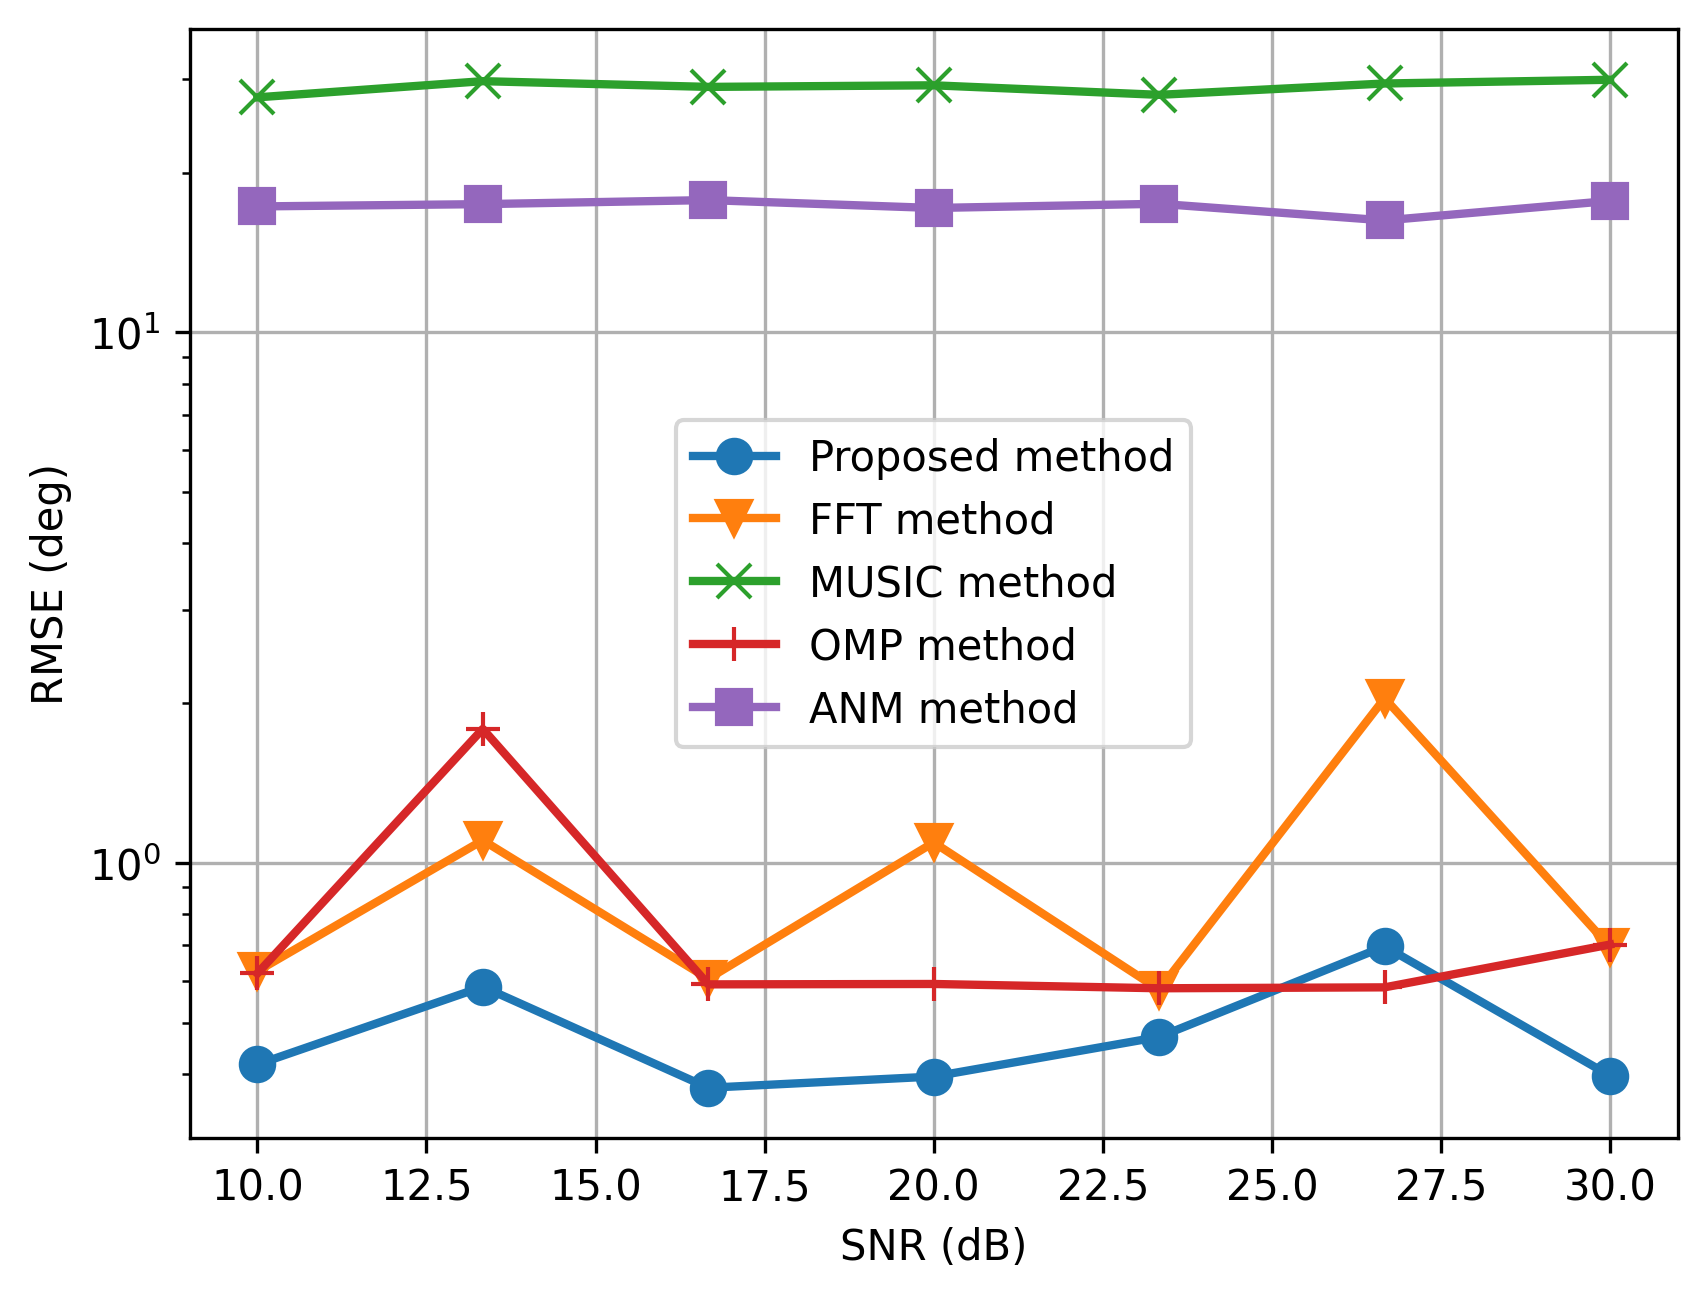
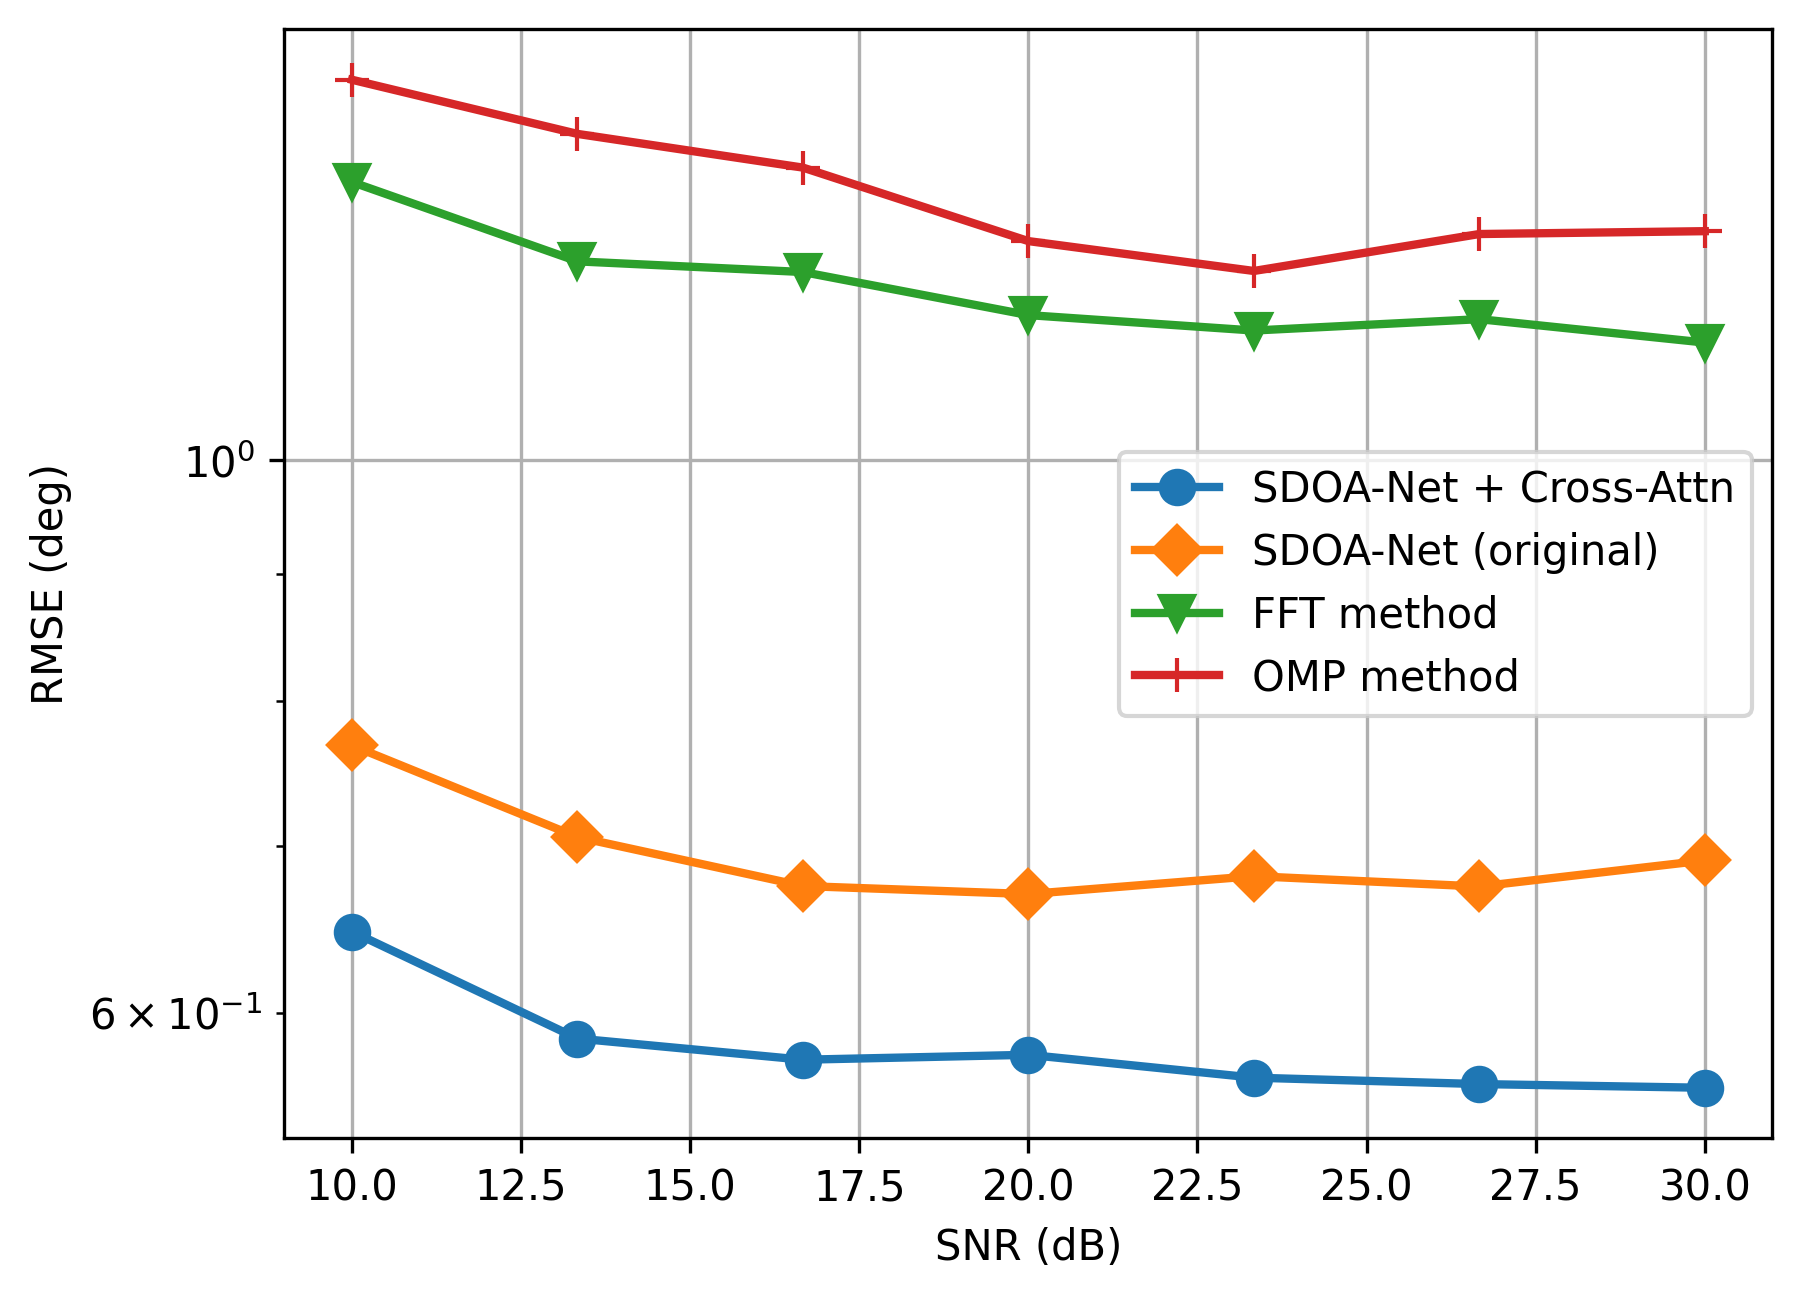
SDOA-Net-main initial version

diff --git a/main.py b/main.py
@@ -15,7 +15,7 @@ import doasys
 #import doa_method 没传这个文件
 from scipy import io
 
-import matlab.engine
+import matlab.engine  # 服务器无MATLAB许可证，已关闭
 
 
 def make_hankel(signal, m):
@@ -45,11 +45,24 @@ def music(signal, xgrid, nfreq, m=20):
     return music_fr
 
 
+# 加载旧版SDOA-Net模型的辅助函数（net0.pkl由原版doasys.spectrumModule保存）
+def load_legacy_model(path, use_cuda):
+    _orig_class = doasys.spectrumModule
+    doasys.spectrumModule = doasys.spectrumModuleV0
+    if use_cuda:
+        net = torch.load(path, weights_only=False)
+    else:
+        net = torch.load(path, map_location=torch.device('cpu'), weights_only=False)
+    doasys.spectrumModule = _orig_class
+    return net
+
+
 if __name__ == '__main__':
 
-    is_music = True
-    is_anm = True
+    is_music = False  # 服务器无MATLAB许可证，已关闭MUSIC对比
+    is_anm = False    # 服务器无MATLAB许可证，已关闭ANM对比
     is_proposed = True
+    is_legacy = True  # 是否加载原版SDOA-Net（net0.pkl）进行对比
 
     is_fig = True
     is_save = False
@@ -112,17 +125,39 @@ if __name__ == '__main__':
     ref_grid = doa_grid
     # generate the training data
 
-    loss_arr = np.load('loss.npz')
-
-    loss_train = loss_arr['arr_0']
-    loss_val = loss_arr['arr_1']
+    # 加载新版SDOA-Net（含Cross-Attention）
     if args.use_cuda:
         net = torch.load('net.pkl', weights_only=False)
     else:
         net = torch.load('net.pkl', map_location=torch.device('cpu'), weights_only=False)
 
+    # 加载原版SDOA-Net（不含Cross-Attention，用于对比）
+    if is_legacy:
+        net0 = load_legacy_model('net0.pkl', args.use_cuda)
+        print("Loaded original SDOA-Net from net0.pkl")
+
+    # PyTorch 2.6+ compatibility
+    for module in net.modules():
+        if isinstance(module, nn.Conv1d) and not hasattr(module, '_reversed_padding_repeated_twice'):
+            p = module.padding
+            module._reversed_padding_repeated_twice = (p, p) if isinstance(p, int) else tuple(p) * 2
+    if is_legacy:
+        for module in net0.modules():
+            if isinstance(module, nn.Conv1d) and not hasattr(module, '_reversed_padding_repeated_twice'):
+                p = module.padding
+                module._reversed_padding_repeated_twice = (p, p) if isinstance(p, int) else tuple(p) * 2
+
     if args.use_cuda:
         net.cuda()
+        if is_legacy:
+            net0.cuda()
+
+    # 多GPU支持：双卡3090 DataParallel
+    if args.use_cuda and torch.cuda.device_count() > 1:
+        print("Using %d GPUs: %s" % (torch.cuda.device_count(), torch.cuda.get_device_name(0)))
+        net = nn.DataParallel(net)
+        if is_legacy:
+            net0 = nn.DataParallel(net0)
 
     # 构建字典矩阵，公式26
     dic_mat = np.zeros((doa_grid.size, 2, args.ant_num))
@@ -141,13 +176,14 @@ if __name__ == '__main__':
     # SNR_range = np.linspace(0, 30, 4)
     SNR_range = np.linspace(10, 30, 7)
     RMSE = np.zeros((SNR_range.size, 1))
+    RMSE_legacy = np.zeros((SNR_range.size, 1))
     RMSE_FFT = np.zeros((SNR_range.size, 1))
     RMSE_MUSIC = np.zeros((SNR_range.size, 1))
     RMSE_OMP = np.zeros((SNR_range.size, 1))
     RMSE_ANM = np.zeros((SNR_range.size, 1))
 
-    eng = matlab.engine.start_matlab()
-    eng.cvx_startup(nargout=0)
+    eng = matlab.engine.start_matlab()           # 服务器无MATLAB许可证，已关闭
+    eng.cvx_startup(nargout=0)                   # 服务器无MATLAB许可证，已关闭
 
     # dic_music = np.zeros((doa_grid.size, antnum_reshape), dtype=complex)
     # for idx2 in range(doa_grid.size):
@@ -156,13 +192,14 @@ if __name__ == '__main__':
     for n in range(SNR_range.size):
         n_test = 100 # 10
         RMSE[n] = 0
+        RMSE_legacy[n] = 0
         RMSE_FFT[n] = 0
         RMSE_MUSIC[n] = 0
         RMSE_OMP[n] = 0
         RMSE_ANM[n] = 0
         for n1 in range(n_test):
             epoch_start_time = time.time()
-            test_len = 2 # 2000
+            test_len = 2000
             signal, doa, target_num = doasys.gen_signal(test_len, args)
             ref_sp = doasys.gen_refsp(doa, ref_grid, args.gaussian_std / args.ant_num)
             signal = torch.from_numpy(signal).float()
@@ -175,8 +212,6 @@ if __name__ == '__main__':
                     noisy_signals = noisy_signals.cuda()
                 with torch.no_grad():
                     output_net = net(noisy_signals).view(test_len, 2, -1)
-
-                # output_net = net(noisy_signals).view(test_len, 2, -1)
 
                 mm_real = torch.mm(output_net[:, 0, :], dic_mat_torch[:, 0, :].T) + torch.mm(output_net[:, 1, :],
                                                                                              dic_mat_torch[:, 1, :].T)
@@ -191,6 +226,27 @@ if __name__ == '__main__':
                 est_doa = doasys.get_doa(sp_np, doa_num, doa_grid, args.max_target_num, doa)
                 RMSE[n] = RMSE[n] + np.sum(np.power(np.abs(est_doa - doa), 2))
 
+            # 原版SDOA-Net（不含Cross-Attention）对比
+            if is_legacy:
+                if args.use_cuda:
+                    noisy_signals_legacy = noisy_signals
+                else:
+                    noisy_signals_legacy = noisy_signals
+                with torch.no_grad():
+                    output_net0 = net0(noisy_signals_legacy).view(test_len, 2, -1)
+
+                mm_real0 = torch.mm(output_net0[:, 0, :], dic_mat_torch[:, 0, :].T) + torch.mm(output_net0[:, 1, :],
+                                                                                               dic_mat_torch[:, 1, :].T)
+                mm_imag0 = torch.mm(output_net0[:, 0, :], dic_mat_torch[:, 1, :].T) - torch.mm(output_net0[:, 1, :],
+                                                                                               dic_mat_torch[:, 0, :].T)
+                sp0 = torch.pow(mm_real0, 2) + torch.pow(mm_imag0, 2)
+                sp0_np = sp0.cpu().detach().numpy()
+                for idx_sp in range(sp0_np.shape[0]):
+                    sp0_np[idx_sp] = sp0_np[idx_sp] / np.max(sp0_np[idx_sp])
+
+                est_doa0 = doasys.get_doa(sp0_np, doa_num, doa_grid, args.max_target_num, doa)
+                RMSE_legacy[n] = RMSE_legacy[n] + np.sum(np.power(np.abs(est_doa0 - doa), 2))
+
             # FFT method
             if args.use_cuda:
                 r = noisy_signals.cpu().detach().numpy()
@@ -198,13 +254,14 @@ if __name__ == '__main__':
                 r = noisy_signals.detach().numpy()
             r_c = r[:, 0, :] + 1j * r[:, 1, :]
             sp_FFT = np.power(np.abs(np.matmul(dic_mat_comp, np.conj(r_c).T)), 2).T
+
             for idx_sp in range(sp_FFT.shape[0]):
                 sp_FFT[idx_sp] = sp_FFT[idx_sp] / np.max(sp_FFT[idx_sp])
             doa_num = (doa >= -90).sum(axis=1)
             est_doa = doasys.get_doa(sp_FFT, doa_num, doa_grid, args.max_target_num, doa)
             RMSE_FFT[n] = RMSE_FFT[n] + np.sum(np.power(np.abs(est_doa - doa), 2))
 
-            # MUSIC alg
+            # MUSIC alg  -- 服务器无MATLAB许可证，已关闭
             if is_music:
                 if args.use_cuda:
                     r = noisy_signals.cpu().detach().numpy()
@@ -243,7 +300,7 @@ if __name__ == '__main__':
                 est_doa_omp[idx1] = np.sort(est_doa_omp[idx1])
             RMSE_OMP[n] = RMSE_OMP[n] + np.sum(np.power(np.abs(est_doa_omp - doa), 2))
 
-            # atomic norm minimization alg
+            # atomic norm minimization alg  -- 服务器无MATLAB许可证，已关闭
             if is_anm:
                 if args.use_cuda:
                     r = noisy_signals.cpu().detach().numpy()
@@ -266,7 +323,9 @@ if __name__ == '__main__':
             if is_fig:
                 plt.figure()
                 if is_proposed:
-                    plt.plot(doa_grid, sp_np[0], label='Proposed method')
+                    plt.plot(doa_grid, sp_np[0], label='SDOA-Net + Cross-Attn')
+                if is_legacy:
+                    plt.plot(doa_grid, sp0_np[0], label='SDOA-Net (original)')
                 plt.plot(doa_grid, sp_FFT[0], label='FFT method')
                 if is_anm:
                     plt.plot(doa_grid, sp_ANM[0], label='ANM method')
@@ -289,12 +348,17 @@ if __name__ == '__main__':
                 if tmp_doa.size == 3:
                     io.savemat('doa_grid.mat', {'array': doa_grid})
                     io.savemat('sp_proposed.mat', {'array': sp_np[0]})
-                    io.savemat('sp_ANM.mat', {'array': sp_ANM[0]})
-                    io.savemat('sp_MUSIC.mat', {'array': sp_MUSIC[0]})
+                    if is_legacy:
+                        io.savemat('sp_legacy.mat', {'array': sp0_np[0]})
+                    if is_anm:
+                        io.savemat('sp_ANM.mat', {'array': sp_ANM[0]})
+                    if is_music:
+                        io.savemat('sp_MUSIC.mat', {'array': sp_MUSIC[0]})
                     io.savemat('sp_FFT.mat', {'array': sp_FFT[0]})
 
             print("SNR: %.2f dB, Test: %d/%d, Time: %.2f" % (SNR_dB, n1, n_test, time.time() - epoch_start_time))
         RMSE[n] = np.sqrt(RMSE[n] / (doa.size * n_test))
+        RMSE_legacy[n] = np.sqrt(RMSE_legacy[n] / (doa.size * n_test))
         RMSE_FFT[n] = np.sqrt(RMSE_FFT[n] / (doa.size * n_test))
         if is_music:
             RMSE_MUSIC[n] = np.sqrt(RMSE_MUSIC[n] / (doa.size * n_test))
@@ -302,15 +366,17 @@ if __name__ == '__main__':
         if is_anm:
             RMSE_ANM[n] = np.sqrt(RMSE_ANM[n] / (doa.size * n_test))
         print(
-            "SNR (dB): %.2f dB, RMSE (deg): %.2f, RMSE_FFT (deg): %.2f, RMSE_OMP (deg): %.2f, RMSE_ANM (deg): %.2f, RMSE_MUSIC (deg): %.2f" % (
-                SNR_dB, RMSE[n], RMSE_FFT[n], RMSE_OMP[n], RMSE_ANM[n], RMSE_MUSIC[n]))
+            "SNR (dB): %.2f dB, RMSE_XAttn (deg): %.2f, RMSE_SDOA (deg): %.2f, RMSE_FFT (deg): %.2f, RMSE_OMP (deg): %.2f" % (
+                SNR_dB, RMSE[n], RMSE_legacy[n], RMSE_FFT[n], RMSE_OMP[n]))
 
     plt.figure()
-    plt.semilogy(SNR_range, RMSE, linestyle='-', marker='o', linewidth=2, markersize=8, label='Proposed method')
+    plt.semilogy(SNR_range, RMSE, linestyle='-', marker='o', linewidth=2, markersize=8, label='SDOA-Net + Cross-Attn')
+    if is_legacy:
+        plt.semilogy(SNR_range, RMSE_legacy, linestyle='-', marker='D', linewidth=2, markersize=8, label='SDOA-Net (original)')
     plt.semilogy(SNR_range, RMSE_FFT, linestyle='-', marker='v', linewidth=2, markersize=8, label='FFT method')
-    plt.semilogy(SNR_range, RMSE_MUSIC, linestyle='-', marker='x', linewidth=2, markersize=8, label='MUSIC method')
+    # plt.semilogy(SNR_range, RMSE_MUSIC, linestyle='-', marker='x', linewidth=2, markersize=8, label='MUSIC method')
     plt.semilogy(SNR_range, RMSE_OMP, linestyle='-', marker='+', linewidth=2, markersize=8, label='OMP method')
-    plt.semilogy(SNR_range, RMSE_ANM, linestyle='-', marker='s', linewidth=2, markersize=8, label='ANM method')
+    # plt.semilogy(SNR_range, RMSE_ANM, linestyle='-', marker='s', linewidth=2, markersize=8, label='ANM method')
     plt.xlabel('SNR (dB)')
     plt.ylabel('RMSE (deg)')
     plt.legend()
@@ -321,13 +387,15 @@ if __name__ == '__main__':
     if is_save:
         io.savemat('SNR_range.mat', {'array': SNR_range})
         io.savemat('RMSE.mat', {'array': RMSE})
+        io.savemat('RMSE_legacy.mat', {'array': RMSE_legacy})
         io.savemat('RMSE_FFT.mat', {'array': RMSE_FFT})
-        io.savemat('RMSE_MUSIC.mat', {'array': RMSE_MUSIC})
+        # io.savemat('RMSE_MUSIC.mat', {'array': RMSE_MUSIC})
         io.savemat('RMSE_OMP.mat', {'array': RMSE_OMP})
-        io.savemat('RMSE_ANM.mat', {'array': RMSE_ANM})
+        # io.savemat('RMSE_ANM.mat', {'array': RMSE_ANM})
 
     # plt.figure()
-    # plt.semilogy(SNR_range, savitzky_golay(RMSE, 50, 3), linestyle='-', marker='o', linewidth=2, markersize=8, label='Proposed method')
+    # plt.semilogy(SNR_range, savitzky_golay(RMSE, 50, 3), linestyle='-', marker='o', linewidth=2, markersize=8, label='SDOA-Net + Cross-Attn')
+    # plt.semilogy(SNR_range, savitzky_golay(RMSE_legacy, 50, 3), linestyle='-', marker='D', linewidth=2, markersize=8, label='SDOA-Net (original)')
     # plt.semilogy(SNR_range, savitzky_golay(RMSE_FFT, 50, 3), linestyle='-', marker='v', linewidth=2, markersize=8, label='FFT method')
     # plt.semilogy(SNR_range, savitzky_golay(RMSE_MUSIC, 50, 3), linestyle='-', marker='x', linewidth=2, markersize=8, label='MUSIC method')
     # plt.semilogy(SNR_range, savitzky_golay(RMSE_OMP, 50, 3), linestyle='-', marker='+', linewidth=2, markersize=8, label='OMP method')

diff --git a/doasys.py b/doasys.py
@@ -98,7 +98,47 @@ def noise_torch(s, snr):
     return (s + noise).view(bsz, -1, signal_dim)
 
 
-# SDOA-Net的网络结构，输入为时域信号，输出为空间谱
+# 轻量级Cross-Attention模块，用于捕获卷积层之间的长距离依赖关系
+class CrossAttention(nn.Module):
+    def __init__(self, in_dim):
+        super().__init__()
+        self.d_model = 16
+        self.num_heads = 4
+        self.head_dim = self.d_model // self.num_heads
+        self.scale = self.head_dim ** -0.5
+
+        self.in_proj = nn.Linear(in_dim, self.d_model, bias=False)
+        self.q_proj = nn.Linear(self.d_model, self.d_model, bias=False)
+        self.k_proj = nn.Linear(self.d_model, self.d_model, bias=False)
+        self.v_proj = nn.Linear(self.d_model, self.d_model, bias=False)
+        self.out_proj = nn.Linear(self.d_model, in_dim, bias=False)
+
+    def forward(self, x):
+        # x: (batch_size, seq_len, in_dim)
+        bsz, seq_len, _ = x.shape
+        residual = x
+
+        x = self.in_proj(x)  # (bsz, seq_len, d_model)即(bsz, 32, 16)
+
+        # qkv shape: (bsz, 4, 32, 4) (批次, 4个头, 序列长度32, 每个头维度4)
+        q = self.q_proj(x).view(bsz, seq_len, self.num_heads, self.head_dim).transpose(1, 2)
+        k = self.k_proj(x).view(bsz, seq_len, self.num_heads, self.head_dim).transpose(1, 2)
+        v = self.v_proj(x).view(bsz, seq_len, self.num_heads, self.head_dim).transpose(1, 2)
+
+        # k.transpose: (bsz, 4, 4, 32) 与q相乘变为(bsz, 4, 32, 32)
+        # (32, 32)是注意力权重矩阵
+        attn = torch.matmul(q, k.transpose(-2, -1)) * self.scale
+        attn = torch.softmax(attn, dim=-1)
+
+        # 加权求和 (bsz, 4, 32, 32) @ (bsz, 4, 32, 4) = (bsz, 4, 32, 4)
+        out = torch.matmul(attn, v)
+        out = out.transpose(1, 2).contiguous().view(bsz, seq_len, self.d_model) # (bsz, 32, 16)
+        out = self.out_proj(out)  # (bsz, seq_len, in_dim)即(bsz, 32, 2)
+
+        return (out + residual).contiguous()  # 残差连接
+
+
+# SDOA-Net的网络结构，输入为时域信号，输出为空间谱（含Cross-Attention）
 class spectrumModule(nn.Module):
     def __init__(self, signal_dim=8, n_filters=8, n_layers=3, inner_dim=125,
                  kernel_size=3):
@@ -115,8 +155,44 @@ class spectrumModule(nn.Module):
                 nn.ReLU(),
             ]
         self.mod = nn.Sequential(*mod)
+        # 在卷积层之后、展平之前插入Cross-Attention，捕获阵元间长距离依赖
+        self.attn = CrossAttention(n_filters)
         # self.out_layer1 = nn.ConvTranspose1d(n_filters, 1, 4, stride=1, padding=4 // 2, output_padding=1, bias=False)
         # self.linear1 = nn.Linear(inner_dim, 2 * signal_dim, bias=False)
+        self.out_layer = nn.Linear(inner_dim * n_filters, 2 * signal_dim, bias=False)
+
+
+    def forward(self, inp):
+        bsz = inp.size(0)
+        inp = inp.view(bsz, -1)   # (bsz, 32)
+        x = self.in_layer(inp).view(bsz, self.n_filters, -1)  # (bsz, 2, 32)
+        x = self.mod(x)   # (bsz, 2, 32) 经过 6 层卷积
+        # Cross-Attention: 将inner_dim视作序列长度，在n_filters特征维度上做多头注意力
+        x = x.transpose(1, 2)          # (bsz, inner_dim, n_filters)即(bsz, 32, 2)
+        x = self.attn(x)               # (bsz, inner_dim, n_filters)调用多头注意力，shape不变
+        x = x.transpose(1, 2)          # (bsz, n_filters, inner_dim)即(bsz, 2, 32)
+        x = x.reshape(bsz, -1)    # (bsz, 64) 展平
+        x = self.out_layer(x).view(bsz, -1)     # (bsz, 32)
+        return x
+
+
+# 原版SDOA-Net（不含Cross-Attention），用于加载旧模型net0.pkl
+class spectrumModuleV0(nn.Module):
+    def __init__(self, signal_dim=8, n_filters=8, n_layers=3, inner_dim=125,
+                 kernel_size=3):
+        super().__init__()
+        self.n_filters = n_filters
+        self.in_layer = nn.Linear(2 * signal_dim, inner_dim * n_filters, bias=False)
+        mod = []
+        for n in range(n_layers):  # padding=kernel_size - 1
+            mod += [
+                nn.Conv1d(n_filters, n_filters, kernel_size=kernel_size, padding=kernel_size // 2, bias=False,
+                          padding_mode='circular'),
+                # nn.Conv1d(n_filters, n_filters, kernel_size=kernel_size, padding=kernel_size - 1, bias=False),
+                nn.BatchNorm1d(n_filters),
+                nn.ReLU(),
+            ]
+        self.mod = nn.Sequential(*mod)
         self.out_layer = nn.Linear(inner_dim * n_filters, 2 * signal_dim, bias=False)
 
 
@@ -198,6 +274,7 @@ def train_net(args, net, optimizer, criterion, train_loader, val_loader,
         noisy_signal = noise_torch(clean_signal, args.snr)
         optimizer.zero_grad()
         output_net = net(noisy_signal).view(args.batch_size, 2, -1)
+
         if net_type == 0:
             mm_real = torch.mm(output_net[:, 0, :], dic_mat_torch[:, 0, :].T) + torch.mm(output_net[:, 1, :],
                                                                                          dic_mat_torch[:, 1, :].T)

diff --git a/train.py b/train.py
@@ -103,6 +103,11 @@ if __name__ == '__main__':
     if args.use_cuda:
         net.cuda()
 
+    # 多GPU支持：双卡3090 DataParallel
+    if args.use_cuda and torch.cuda.device_count() > 1:
+        print("Using %d GPUs: %s" % (torch.cuda.device_count(), torch.cuda.get_device_name(0)))
+        net = nn.DataParallel(net)
+
     optimizer = torch.optim.Adam(net.parameters(), lr=args.lr)
     # scheduler = torch.optim.lr_scheduler.ReduceLROnPlateau(optimizer, 'min', patience=7, factor=0.5, verbose=True)
 
@@ -204,7 +209,10 @@ if __name__ == '__main__':
                 #     plt.show()
             if args.net_type == 0:
                 np.savez('loss.npz' , loss_train, loss_val)
-                torch.save(net, 'net.pkl')
+                # 多GPU时保存解包后的模型（去除DataParallel的module前缀）
+                net_to_save = net.module if isinstance(net, nn.DataParallel) else net
+                torch.save(net_to_save, 'net.pkl')
             else:
                 np.savez(('deepfreq_loss_layer%d.npz' % args.n_layers), loss_train, loss_val)
-                torch.save(net, ('deepfreq__layer%d.pkl' % args.n_layers))
+                net_to_save = net.module if isinstance(net, nn.DataParallel) else net
+                torch.save(net_to_save, ('deepfreq__layer%d.pkl' % args.n_layers))
